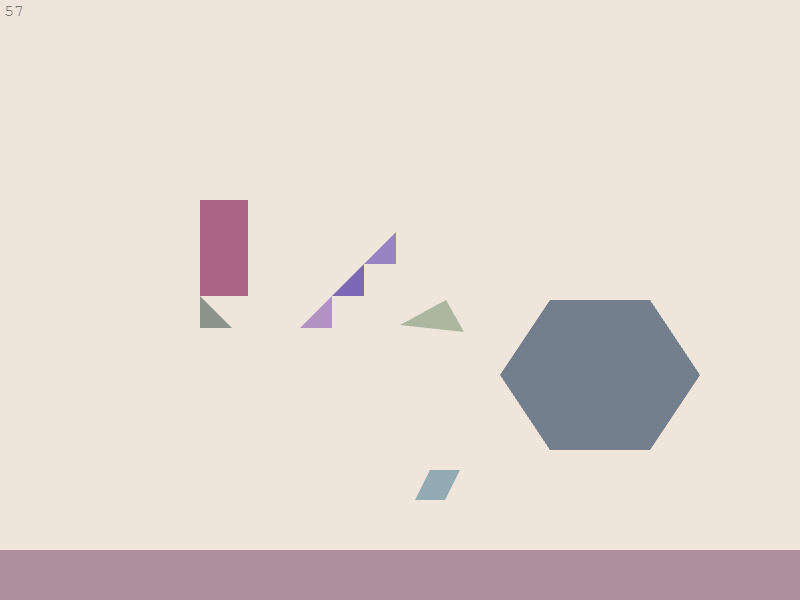
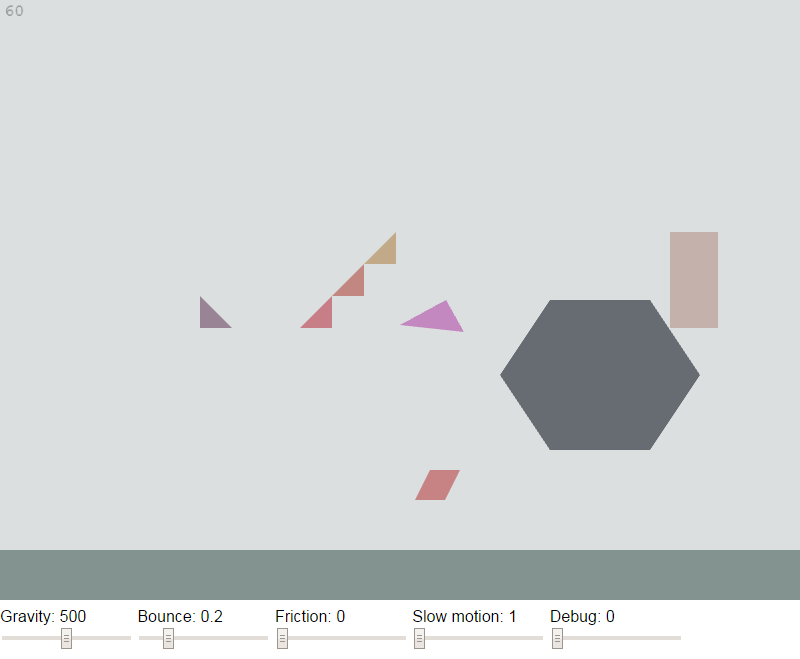
Got controls working, updated a bunch of stuff, even the screenshot (which still manages to be out of date).

diff --git a/PhaserSat.js b/PhaserSat.js
@@ -1,17 +1,19 @@
 var PhaserSat = (function (Phaser, SAT) {
 	
 	/**
+	 * Instantiate a new PhaserSat Phaser state.
+	 * 
 	 * @constructor
 	 */
 	var PhaserSat = function () {
-		// We don't need anything in our Phaser state constructor
+		// We don't need anything in the constructor for this Phaser state.
 	};
 	
 	PhaserSat.prototype = {
 		
 		/**
-		 * Some debug data arrays for use in the render() method, after being
-		 * populated in the update() method.
+		 * Some data populated by the update() method for use in the render()
+		 * method.
 		 * 
 		 * @type {object<array>}
 		 */
@@ -21,18 +23,17 @@ var PhaserSat = (function (Phaser, SAT) {
 		},
 		
 		/**
-		 * Some values we can use throughout our game state.
+		 * Some feature values we can use throughout our game state.
 		 * 
 		 * @type {object}
 		 */
 		features: {
 			debug: 0,
 			speed: 1000,
-			bounce: 0.2,
+			bounce: 0,
 			gravity: 500,
 			friction: 0,
-			slowMotion: 1,
-			stopSliding: false
+			slowMotion: 1
 		},
 		
 		/**
@@ -87,7 +88,6 @@ var PhaserSat = (function (Phaser, SAT) {
 			
 			// Limit the effects of gravity and acceleration
 			this.player.body.drag.x = this.features.speed;
-			this.player.body.drag.y = this.features.speed;
 			this.player.body.maxVelocity.x = this.features.speed;
 			this.player.body.maxVelocity.y = this.features.speed;
 			
@@ -122,13 +122,15 @@ var PhaserSat = (function (Phaser, SAT) {
 			// Let's create a wide box to act as a floor
 			this.polygons.push(new Box(new V(0, 550), 800, 50).toPolygon());
 			
-			// A bottom left triangle
-			this.polygons.push(new P(new V(200, 296), [
-				new V(0, 0), new V(32, 32), new V(0, 32)
-			]));
+			// A few bottom left triangles
+			for (var i = 0; i < 5; i++) {
+				this.polygons.push(new P(new V(200 - 32 * i, 296 - 32 * i), [
+					new V(0, 0), new V(32, 32), new V(0, 32)
+				]));
+			}
 			
-			// A few bottom right triangles
-			for (var i = 0; i < 3; i++) {
+			// And a few bottom right triangles
+			for (i = 0; i < 5; i++) {
 				this.polygons.push(new P(new V(300 + 32 * i, 296 - 32 * i), [
 					new V(32, 0), new V(32, 32), new V(0, 32)
 				]));
@@ -139,8 +141,13 @@ var PhaserSat = (function (Phaser, SAT) {
 				new V(46, 0), new V(0, 25), new V(64, 32)
 			]));
 			
+			// A bigger less ordinary triangle
+			this.polygons.push(new P(new V(260, 440), [
+				new V(0, 0), new V(40, 40), new V(-30, 60)
+			]));
+			
 			// Parallelogram
-			this.polygons.push(new P(new V(400, 400), [
+			this.polygons.push(new P(new V(350, 400), [
 				new V(30,70), new V(60,70), new V(45,100), new V(15,100)
 			]));
 			
@@ -211,8 +218,8 @@ var PhaserSat = (function (Phaser, SAT) {
 					body.position.y += overlapV.y;
 					
 					// Let's update the SAT polygon too for any further polygons
-					body.sat.polygon.pos.x += overlapV.x;
-					body.sat.polygon.pos.y += overlapV.y;
+					body.sat.polygon.pos.x = body.position.x;
+					body.sat.polygon.pos.y = body.position.y;
 					
 					/**
 					 * And now, let's experiment with - goodness me - velocity!
@@ -234,7 +241,7 @@ var PhaserSat = (function (Phaser, SAT) {
 					var bounce = velocityN.clone().scale(-this.features.bounce);
 					
 					// And scale a friction coefficient to the surface velocity
-					var friction = velocityT.clone().scale(1 - this.features.friction);
+					var friction = velocityT.clone().scale(1.01 - this.features.friction);
 					
 					// And finally add them together for our new velocity!
 					var newVelocity = friction.clone().add(bounce);
@@ -280,19 +287,21 @@ var PhaserSat = (function (Phaser, SAT) {
 			 * to our player by using acceleration.
 			 */
 			
-			 // Toggle gravity (and player drag on the Y axis) when we've just
- 			// pressed down the G key
- 			if (controls.gravity.justDown) {
- 				if (!gravity.y) {
-					// We don't want any drag on the Y axis when gravity is on
- 					gravity.y = this.features.gravity;
- 					body.drag.y = 0;
- 				} else {
-					// But we do want it when gravity is off!
- 					gravity.y = 0;
- 					body.drag.y = this.features.speed;
- 				}
- 			}
+			 // Let's apply some feature values
+ 			gravity.y = this.features.gravity;
+			body.drag.x = this.features.speed;
+			body.bounce.setTo(this.features.bounce);
+			body.maxVelocity.x = this.features.speed;
+			body.maxVelocity.y = this.features.speed;
+			this.time.slowMotion = this.features.slowMotion;
+			
+			if (!gravity.y) {
+				// We want drag on the Y axis when gravity is on
+				body.drag.y = this.features.speed;
+			} else {
+				// But we don't want it when gravity is off!
+				body.drag.y = 0;
+			}
 			
 			// Reset the player body's acceleration
 			if (!(controls.left.isDown || controls.right.isDown)) {
@@ -338,29 +347,38 @@ var PhaserSat = (function (Phaser, SAT) {
 			this.game.debug.start(32, 400, '#777');
 			this.game.debug.columnWidth = 100;
 			
+			// Initialise some variables to use in some loops because my new
+			// linter lints really hard
+			var i, item, name, line, colour;
+			
 			// Render information about our vectors
-			for (var i in this.debug.vectors) {
-				var item = this.debug.vectors[i];
-				var name = item.hasOwnProperty('name') ? item.name : 'Vector ' + i;
+			for (i in this.debug.vectors) {
+				item = this.debug.vectors[i];
+				name = item.hasOwnProperty('name') ? item.name : 'Vector ' + i;
 				
 				this.game.debug.line(name, ' x: ' + item.x.toFixed(4), ' y: ' + item.y.toFixed(4));
 			}
 			
 			this.game.debug.stop();
 			
+			// Render some of the vectors themselves from the center of the
+			// game world (technically the center of the screen relative to
+			// their game world coordinates but whatever)
 			if (this.features.debug > 1) {
 				for (i in this.debug.normals) {
-					var item = this.debug.normals[i];
+					item = this.debug.normals[i];
 					
-					// Draw the normal from the center of the world
-					var line = new Phaser.Line(
+					// Draw the vector (why did I call this normals? because
+					// vectors is already taken)
+					line = new Phaser.Line(
 						this.world.width / 2,
 						this.world.height / 2,
 						this.world.width / 2 + item.x,
 						this.world.height / 2 + item.y
 					);
 					
-					var colour = item.hasOwnProperty('colour') ? item.colour : 'rgba(255,128,255,0.8)';
+					// Select a colour from the vector or fall back to pink
+					colour = item.hasOwnProperty('colour') ? item.colour : 'rgba(255,128,255,0.8)';
 					
 					this.game.debug.geom(line, colour);
 				}
@@ -373,12 +391,15 @@ var PhaserSat = (function (Phaser, SAT) {
 	};
 	
 	/**
+	 * Keep a reference to the original renderBodyInfo() method before
+	 * overriding it.
+	 * 
 	 * @type {function}
 	 */
 	Phaser.Physics.Arcade.Body.originalRenderBodyInfo = Phaser.Physics.Arcade.Body.renderBodyInfo;
 	
 	/**
-	 * Adding a another line to Arcade Body's static renderBodyInfo() method,
+	 * Adds a another line to Arcade Body's static renderBodyInfo() method,
 	 * just so we can see a little more (i.e. drag).
 	 *
 	 * @static

diff --git a/index.html b/index.html
@@ -3,8 +3,20 @@
 	<head>
 		<title>Phaser SAT Experiment</title>
 		<style>
-			.control {
+			body {
+				font-family: sans-serif;
+			}
+			
+			label {
 				display: inline-block;
+			}
+			
+			label input {
+				display: block;
+			}
+			
+			.controls {
+				margin-top: 8px;
 			}
 		</style>
 		<script src="vendor/phaser/build/phaser.js"></script>
@@ -14,12 +26,69 @@
 			var PhaserGlobal = {hideBanner: true};
 			var state = new PhaserSat;
 			var game = new Phaser.Game(800, 600, Phaser.AUTO, 'phaser', state);
+			
+			// This hooks up our ugly controls to the game state object.
+			// Thanks to http://youmightnotneedjquery.com for helping me to
+			// break an unhealthy dependency and keeping me sane here.
+			var $ = document.querySelectorAll.bind(document);
+			
+			/**
+			 * Update a feature value according to the value of the given
+			 * <input type="range"> control.
+			 * 
+			 * @param {Element} control
+			 */
+			var updateValue = function(control) {
+				var feature = control.getAttribute('data-feature');
+				var value = parseFloat(control.value);
+				
+				state.features[feature] = value;
+				$('.' + feature)[0].innerText = value;
+			}
+			
+			document.addEventListener('DOMContentLoaded', function () {
+				// Update the game state's values with control values
+				Array.prototype.forEach.call($('.control'), function (control) {
+					// To begin with
+					updateValue(control);
+					
+					// And when they change
+					control.addEventListener('input', function (event) {
+						updateValue(event.target);
+					})
+				});
+			});
 		</script>
 	</head>
 	<body>
 		<div id="phaser">
 			
 		</div>
-		<!--<input type="range" class="control bounce"> <input type="range" class="control friction"> <input type="range" class="control slowMotion">-->
+		<div class="controls">
+			<label>
+				Speed: <span class="speed"></span>
+				<input type="range" class="control" data-feature="speed" value="1000" min="100" max="5000"/>
+			</label>
+			<label>
+				Gravity: <span class="gravity"></span>
+				<input type="range" class="control" data-feature="gravity" value="500" min="0" max="2000" step="50"/>
+			</label>
+			<label>
+				Bounce: <span class="bounce"></span>
+				<input type="range" class="control" data-feature="bounce" value="0.2" min="0" max="1" step="0.05"/>
+			</label>
+			<label>
+				Friction: <span class="friction"></span>
+				<input type="range" class="control" data-feature="friction" value="0" min="0" max="1" step="0.05"/>
+			</label>
+			<label>
+				Slow motion: <span class="slowMotion"></span>
+				<input type="range" class="control" data-feature="slowMotion" value="0" min="1" max="16"/>
+			</label>
+			<label>
+				Debug: <span class="debug"></span>
+				<input type="range" class="control" data-feature="debug" value="0" min="0" max="2"/>
+			</label>
+		</div>
 	</body>
 </html>
